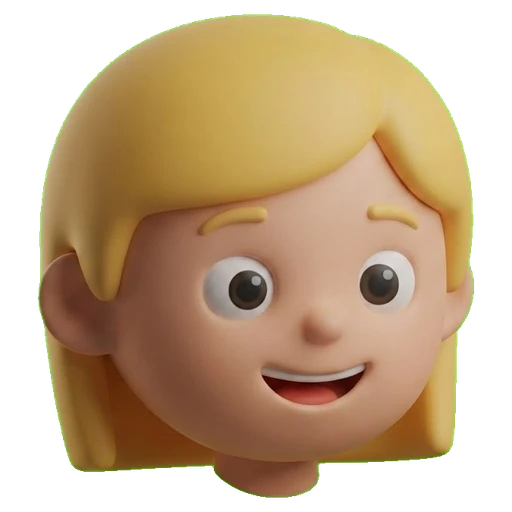
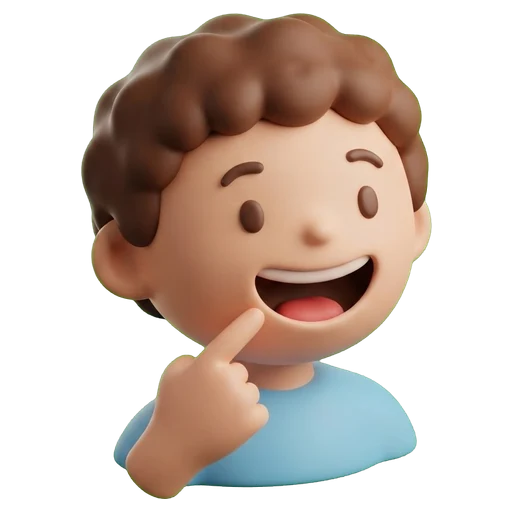
fix(art): "mouth" showed a child, not a mouth — one missing word in the prompt
The owner's son was asked "mouth" in Lyt og Find, picked the girl, and was right
to. The mapping was never wrong: mouth.webp was a child's face with an open
smile and NO pointing gesture, which at answer-tile size is a picture of a
child — and `girl` is in the same shared pool.

ROOT CAUSE, found in the original prompt doc: every sibling in that batch asks
for a gesture — "pointing to their round nose", "turning their head to show and
point at one ear", "gently pointing to one big round expressive eye". The
`mouth` line asked only for "a child WITH a big happy smiling mouth". Gemini did
exactly as told. Line 32 of the prompt doc is corrected, with the general lesson
written beside it: when a batch shares a convention, check every line against it,
because the one that opts out still reads fine.

Also corrects a claim I made while diagnosing: the body parts do NOT share one
recurring child (ear/eye do; nose and hair are different children, deliberately).
The brief I first wrote asked the new render to match a character that does not
exist, which would have made the set less diverse. Match the STYLE, not the child.

TWO MEASUREMENTS worth reusing, both in the doc now:
  * The family is uniformly 95% of the canvas on its longest side. A raw key of
    the new render landed at 75% — it would have drawn ~20% smaller than every
    sibling on the same tile ("measure the INK, not the box").
  * The render came back as JPEG, so the backdrop had drifted from #00FF00 to
[…]

diff --git a/plans/body-part-art/mouth-reshoot-art-prompts.md b/plans/body-part-art/mouth-reshoot-art-prompts.md
@@ -8,42 +8,66 @@ The owner's son answered **"mouth"** in Lyt og Find with the tile showing a girl
 The mapping is correct (`mouth` → `src/assets/games/shared/mouth.webp`); the **picture** is wrong for the
 job. Verified by rendering all 18 files in that folder as one labelled contact sheet:
 
-- **The convention that works is "a child POINTING at the part."** `ear`, `eye`, `nose`, `hair`, `arm` and
-  `hand` all do it, and all use the same recurring brown-haired child in a green top.
-- **`mouth.webp` breaks it twice**: there is no pointing gesture at all, and the face is a *different
-  character* — a blonde child. So it reads as a person, not a body part, and at answer-tile size it is
-  not distinguishable from `girl.webp`, which is in the same shared pool.
+- **The convention that works is "a child POINTING at the part."** `ear`, `eye`, `nose`, `hair`, `arm`
+  and `hand` all do it: an index finger on the feature, head-and-shoulders bust, soft-3D clay look.
+- **The children are DELIBERATELY DIFFERENT from each other.** `ear` and `eye` share one brown-haired
+  child in a green top; `nose` is a dark-curly-haired child with darker skin; `hair` is a third with big
+  curly brown hair in teal. An earlier draft of this doc claimed a single recurring character and asked
+  for `mouth` to match it — that was wrong, and following it would have made the set *less* diverse.
+  **Match the STYLE, not the child.**
+- **So `mouth.webp` has exactly one defect: nothing points at the mouth.** It is a blonde child's face
+  with an open smile and no gesture, which at answer-tile size is not distinguishable from `girl.webp`
+  in the same shared pool. The blonde hair was never the problem.
 - `tooth` is the clearest of the whole set, because the part is the entire subject.
 
 **Nothing existing can be re-pointed to** — there is no other mouth render in the repo. This needs one
 new image. `foot` and `leg` are weak by the same standard (a standing boy, no gesture indicating the
 part) and are included as optional, since Gemini returns four images per message anyway.
 
-## The batch — ONE message, 2×2 grid
+## Upload the style reference
 
-Paste this as a single prompt. Gemini returns four full-resolution images from one message; render as a
-2×2 grid on **one** green background and split into quadrants before keying (1024 ÷ 2 = 512 per subject,
-which clears the ≤40 KB square-WebP target comfortably).
+Attach **`STYLE-REFERENCE-existing-body-parts.png`** (next to this file) to the Gemini message. It is
+`ear` · `eye` · `nose` · `hair` side by side — the four that already work — so the model matches the
+lighting, the clay finish, the bust crop and the pointing gesture without a paragraph of adjectives.
 
-> A 2×2 grid of four separate soft-3D cartoon illustrations of **the same** friendly young child —
-> short brown hair, light skin, plain green t-shirt, warm and child-safe — each clearly indicating one
-> body part with a pointing finger, matte clay/vinyl toy look, gentle top-left key light with soft rim
-> light, soft contact shadow, slight 3/4 top-down angle, single centred subject per quadrant, cheerful
-> and calm expression, **no text or letters anywhere**, flat solid `#00FF00` background edge to edge
-> behind all four, square 1:1, highest resolution.
+**It is NOT a content reference** (Gemini knows what a mouth is) and it is flattened onto **white**, so
+the prompt has to override that explicitly or the render comes back on white instead of green.
+
+## The prompt — paste this, with the reference attached
+
+Only `mouth` is required, so render it **alone at full resolution** rather than as a grid quadrant —
+better detail, and there is nothing to split.
+
+> Using the attached image only as a STYLE reference, create one new illustration in exactly that
+> style: the same soft-3D matte clay/vinyl toy look, same gentle top-left key light with soft rim
+> light, same head-and-shoulders bust crop with the rounded cut-off at the shoulders, same friendly
+> calm expression.
 >
-> 1. **mouth** — head and shoulders, facing forward, mouth **open in a clear happy smile** so the mouth
->    is unmistakably the subject, one index finger pointing directly at their own open mouth. The mouth
->    must be the most salient thing in the frame. *Remember: flat solid `#00FF00` behind it.*
-> 2. **foot** — seated on the floor, one bare foot lifted toward the viewer, one index finger pointing
->    at that foot. The foot is the largest element in frame.
-> 3. **leg** — standing, one hand pointing at their own thigh/shin, that leg turned slightly toward the
->    viewer so it reads as the subject.
-> 4. **tooth-check (reference only, do not save)** — the same child smiling with teeth visible, so the
->    mouth render in quadrant 1 can be compared against it for consistency.
+> **Subject: a young child pointing at their own MOUTH.** Facing forward in a slight 3/4 view, mouth
+> **open in a clear happy smile** so the mouth is unmistakably the subject of the picture, one index
+> finger raised and touching the corner of their open mouth — the same gesture the reference uses for
+> the ear, the eye and the nose. The mouth must be the most salient feature in the frame.
+>
+> Give the child their own look rather than copying the reference child — the set is deliberately
+> diverse. Single centred subject, no other objects, no text or letters anywhere, warm and child-safe.
+>
+> **Background: flat solid `#00FF00` green, edge to edge, behind the whole image. Not white, not a
+> gradient, not a scene** — the reference is on white only because it has already been cut out.
+>
+> Square 1:1, highest resolution.
 
-**Only quadrant 1 is required.** Quadrants 2 and 3 are the optional improvements; quadrant 4 exists to
-give the model the same character twice so quadrant 1 stays on-style, and is thrown away.
+## Optional, same session: `foot` and `leg`
+
+Both show a standing boy with no gesture indicating the part, so they are weak by the same standard —
+though **unlike `mouth` neither has been reported as actually confusing anyone**, so this is polish.
+If you want them, run a second message with the same reference attached and the same style paragraph:
+
+> …**Subject: a young child pointing at their own FOOT** — seated on the floor, one bare foot lifted
+> toward the viewer, one index finger pointing at that foot, the foot the largest element in frame.
+> (and, as a separate image) **a young child pointing at their own LEG** — standing, one hand pointing
+> at their own thigh, that leg turned slightly toward the viewer.
+>
+> Same style, same diversity note, same flat solid `#00FF00` background edge to edge, square 1:1.
 
 ## Saving
 

diff --git a/plans/liveliness-overhaul/tmp-prd-liveliness-12-zero-emoji-art-prompts.md b/plans/liveliness-overhaul/tmp-prd-liveliness-12-zero-emoji-art-prompts.md
@@ -29,7 +29,26 @@ via `.claude/rules/scene-assets.md` and wires them.
 - **id `eye`:** A friendly cartoon child face gently pointing to one big round expressive eye, the eye clearly emphasized — soft-3D claymation / Pixar-lite, rounded matte clay surfaces, soft top-left key light + subtle rim light, soft ambient occlusion + soft contact shadow, warm and child-safe, slight 3/4 top-down, single centered subject with generous margin, no text or letters, isolated on a flat solid #00FF00 background edge-to-edge, 1:1 square, high detail.
 - **id `ear`:** A friendly cartoon child turning their head to show and point at one ear, the ear clearly emphasized — soft-3D claymation / Pixar-lite, rounded matte clay surfaces, soft top-left key light + subtle rim light, soft ambient occlusion + soft contact shadow, warm and child-safe, slight 3/4 top-down, single centered subject with generous margin, no text or letters, isolated on a flat solid #00FF00 background edge-to-edge, 1:1 square, high detail.
 - **id `nose`:** A friendly cartoon child pointing to their round nose, the nose clearly emphasized — soft-3D claymation / Pixar-lite, rounded matte clay surfaces, soft top-left key light + subtle rim light, soft ambient occlusion + soft contact shadow, warm and child-safe, slight 3/4 top-down, single centered subject with generous margin, no text or letters, isolated on a flat solid #00FF00 background edge-to-edge, 1:1 square, high detail.
-- **id `mouth`:** A friendly cartoon child with a big happy smiling mouth, the mouth clearly emphasized, no sharp teeth — soft-3D claymation / Pixar-lite, rounded matte clay surfaces, soft top-left key light + subtle rim light, soft ambient occlusion + soft contact shadow, warm and child-safe, slight 3/4 top-down, single centered subject with generous margin, no text or letters, isolated on a flat solid #00FF00 background edge-to-edge, 1:1 square, high detail.
+- **id `mouth`:** **[CORRECTED 2026-09-06 — the original prompt shipped a defect. See below.]** A friendly cartoon child pointing to their wide open happy smiling mouth, the mouth clearly emphasized and unmistakably the subject, no sharp teeth — soft-3D claymation / Pixar-lite, rounded matte clay surfaces, soft top-left key light + subtle rim light, soft ambient occlusion + soft contact shadow, warm and child-safe, slight 3/4 top-down, single centered subject with generous margin, no text or letters, isolated on a flat solid #00FF00 background edge-to-edge, 1:1 square, high detail.
+
+  > **Why this line was wrong, and it is the most useful thing on this page.** Every other body part in
+  > this batch asks for a GESTURE — "pointing to their round nose", "turning their head to show and
+  > point at one ear", "gently pointing to one big round expressive eye". The original `mouth` line
+  > asked only for *"a child WITH a big happy smiling mouth"*. Gemini did exactly as told and returned a
+  > child's face with no gesture — which at answer-tile size is a picture of **a child**, not of a mouth.
+  > `girl` is in the same shared pool, so in Lyt og Find the owner's five-year-old was asked "mouth",
+  > picked the girl, and was right to.
+  >
+  > The defect was one missing word, in the prompt, not in the model or the pipeline. **When a batch
+  > shares a convention, state the convention once and check every line against it** — a line that
+  > silently opts out looks complete and reads fine.
+  >
+  > Two more things measured while replacing it, both worth reusing: the family is uniformly **95% of
+  > the canvas on its longest side**, and a raw key of the new render landed at 75%, which would have
+  > drawn ~20% smaller than every sibling on the same tile (`scene-assets.md`'s "measure the INK, not
+  > the box"). And the re-render came back as **JPEG**, so the backdrop had drifted from `#00FF00` to
+  > ~`[37,241,20]` and varied corner to corner — key on `G - max(R,B)` with a feathered band and a
+  > despill, never on an exact colour match.
 - **id `tooth`:** A single cute smiling cartoon tooth character, rounded and friendly (not scary) — soft-3D claymation / Pixar-lite, rounded matte clay surfaces, soft top-left key light + subtle rim light, soft ambient occlusion + soft contact shadow, warm and child-safe, slight 3/4 top-down, single centered subject with generous margin, no text or letters, isolated on a flat solid #00FF00 background edge-to-edge, 1:1 square, high detail.
 - **id `hair`:** A friendly cartoon child happily showing off a full head of nice hair, the hair clearly emphasized — soft-3D claymation / Pixar-lite, rounded matte clay surfaces, soft top-left key light + subtle rim light, soft ambient occlusion + soft contact shadow, warm and child-safe, slight 3/4 top-down, single centered subject with generous margin, no text or letters, isolated on a flat solid #00FF00 background edge-to-edge, 1:1 square, high detail.
 
